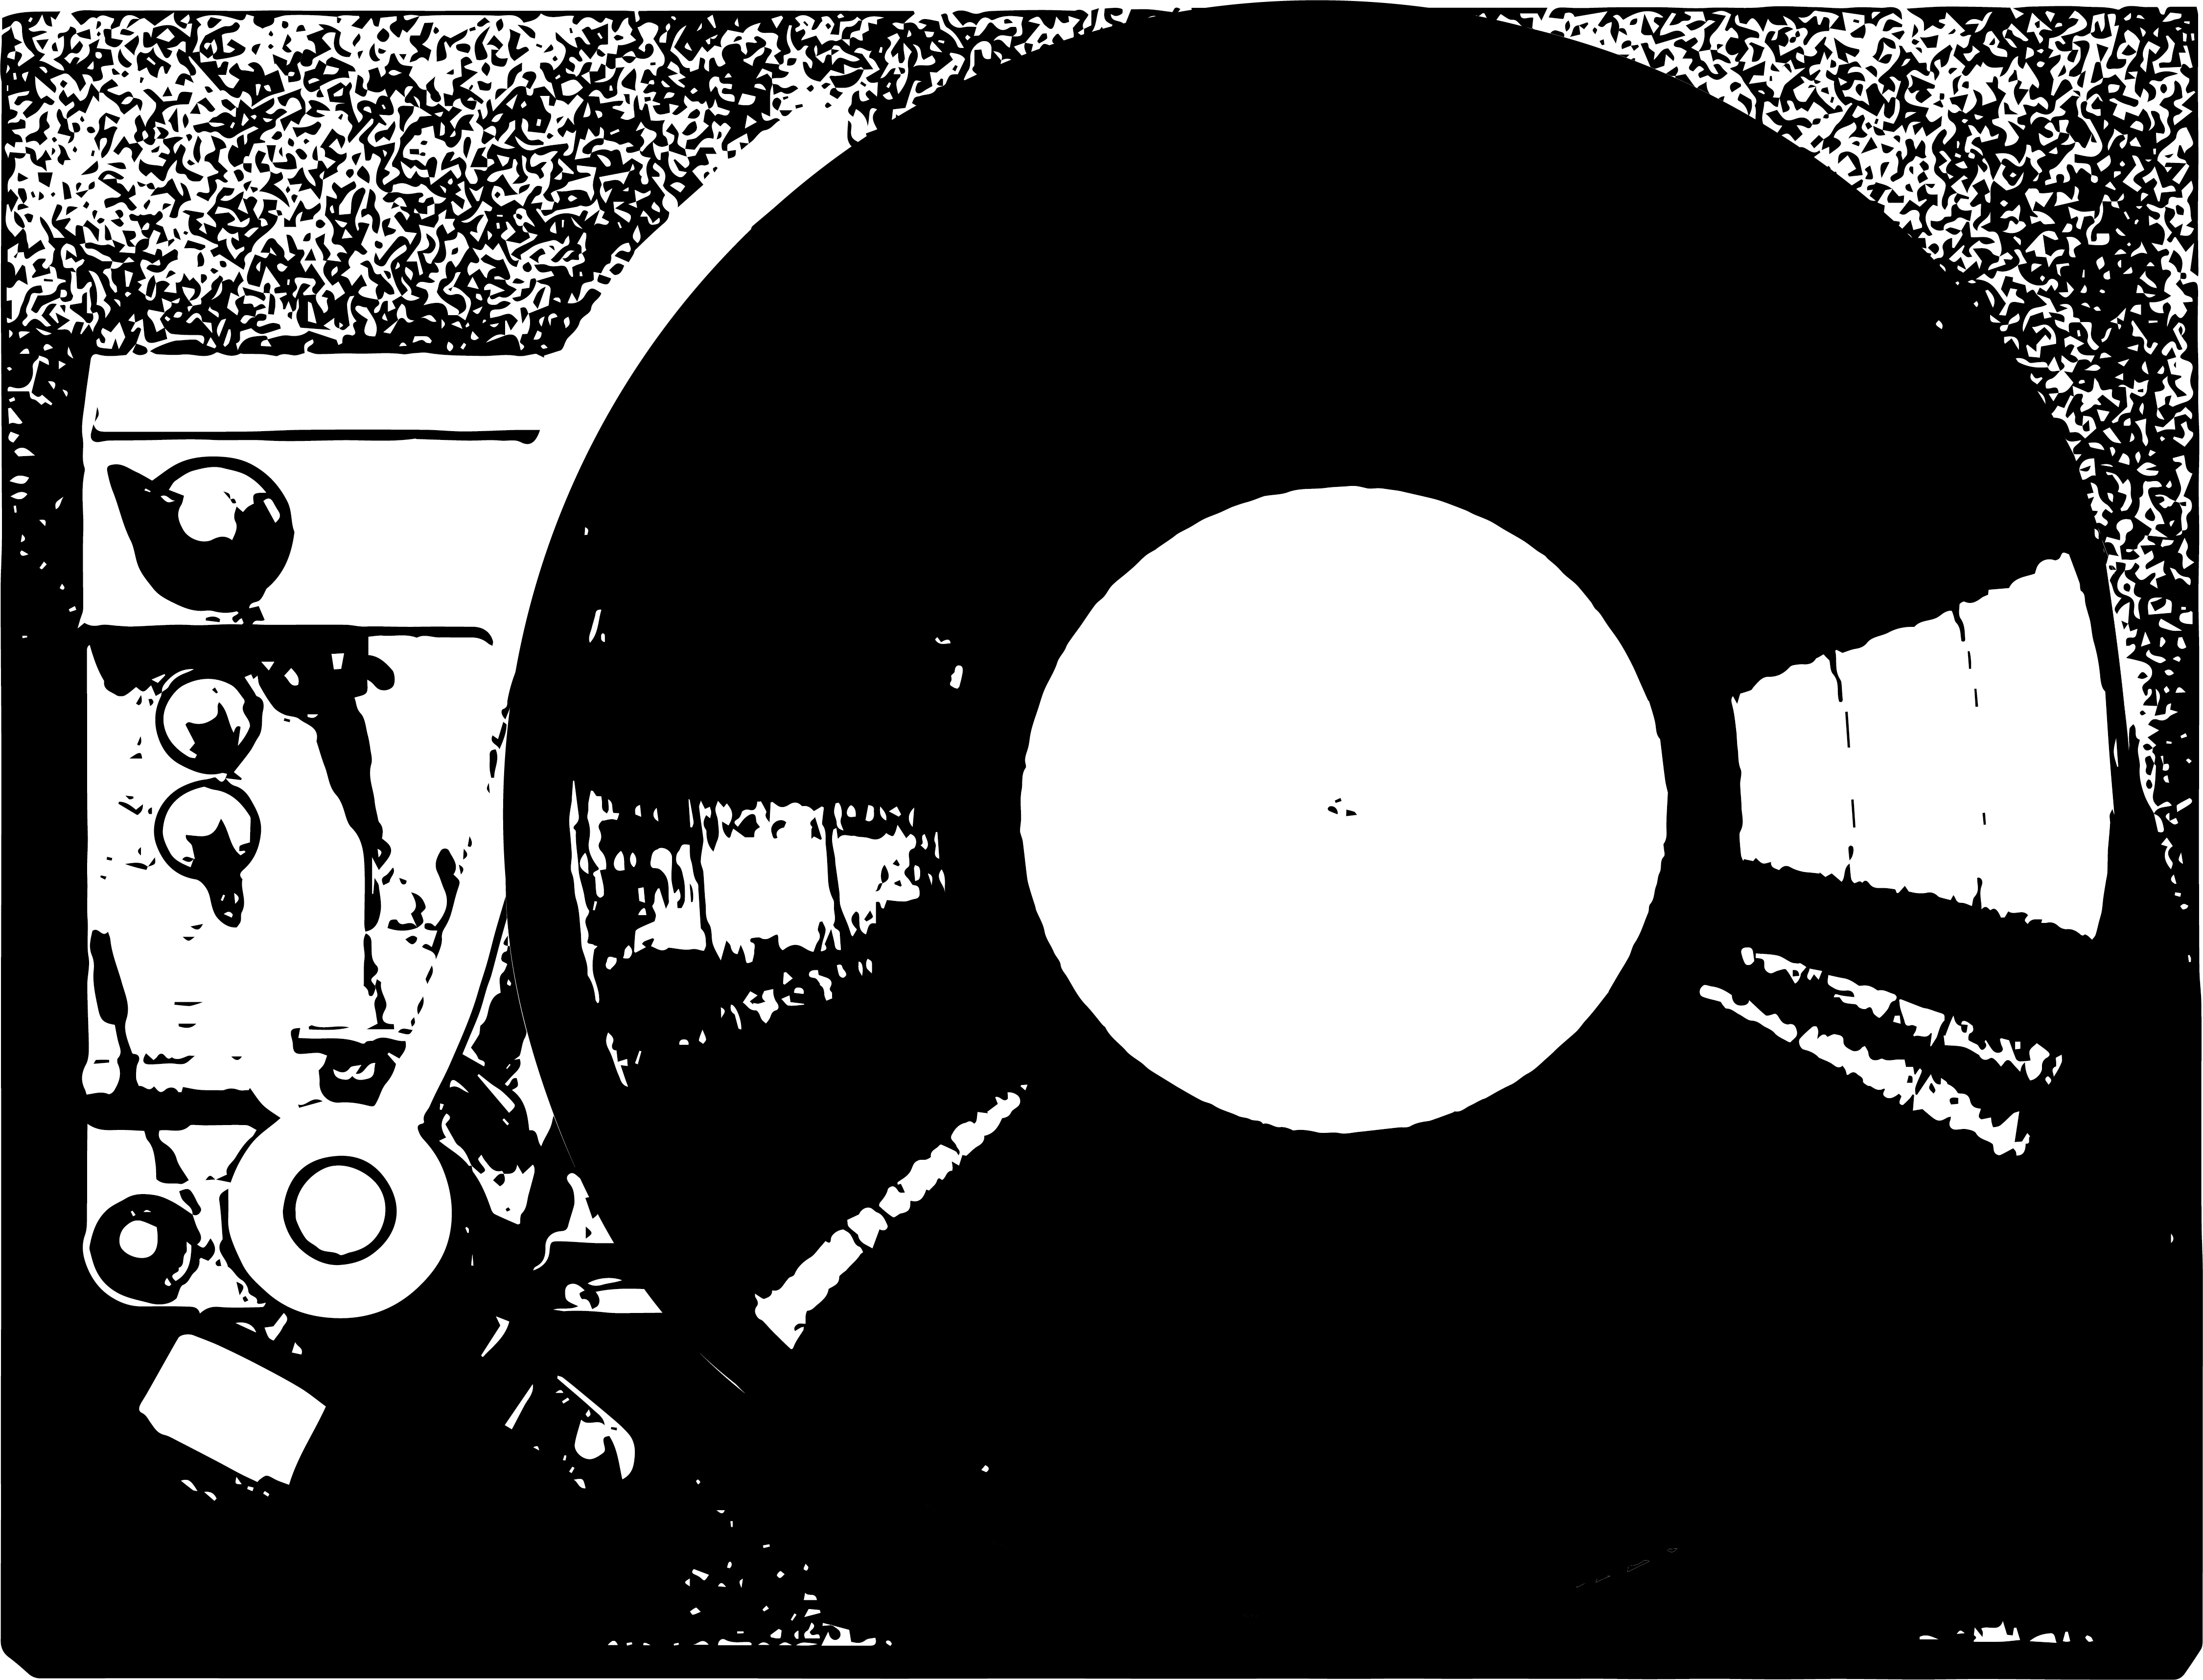
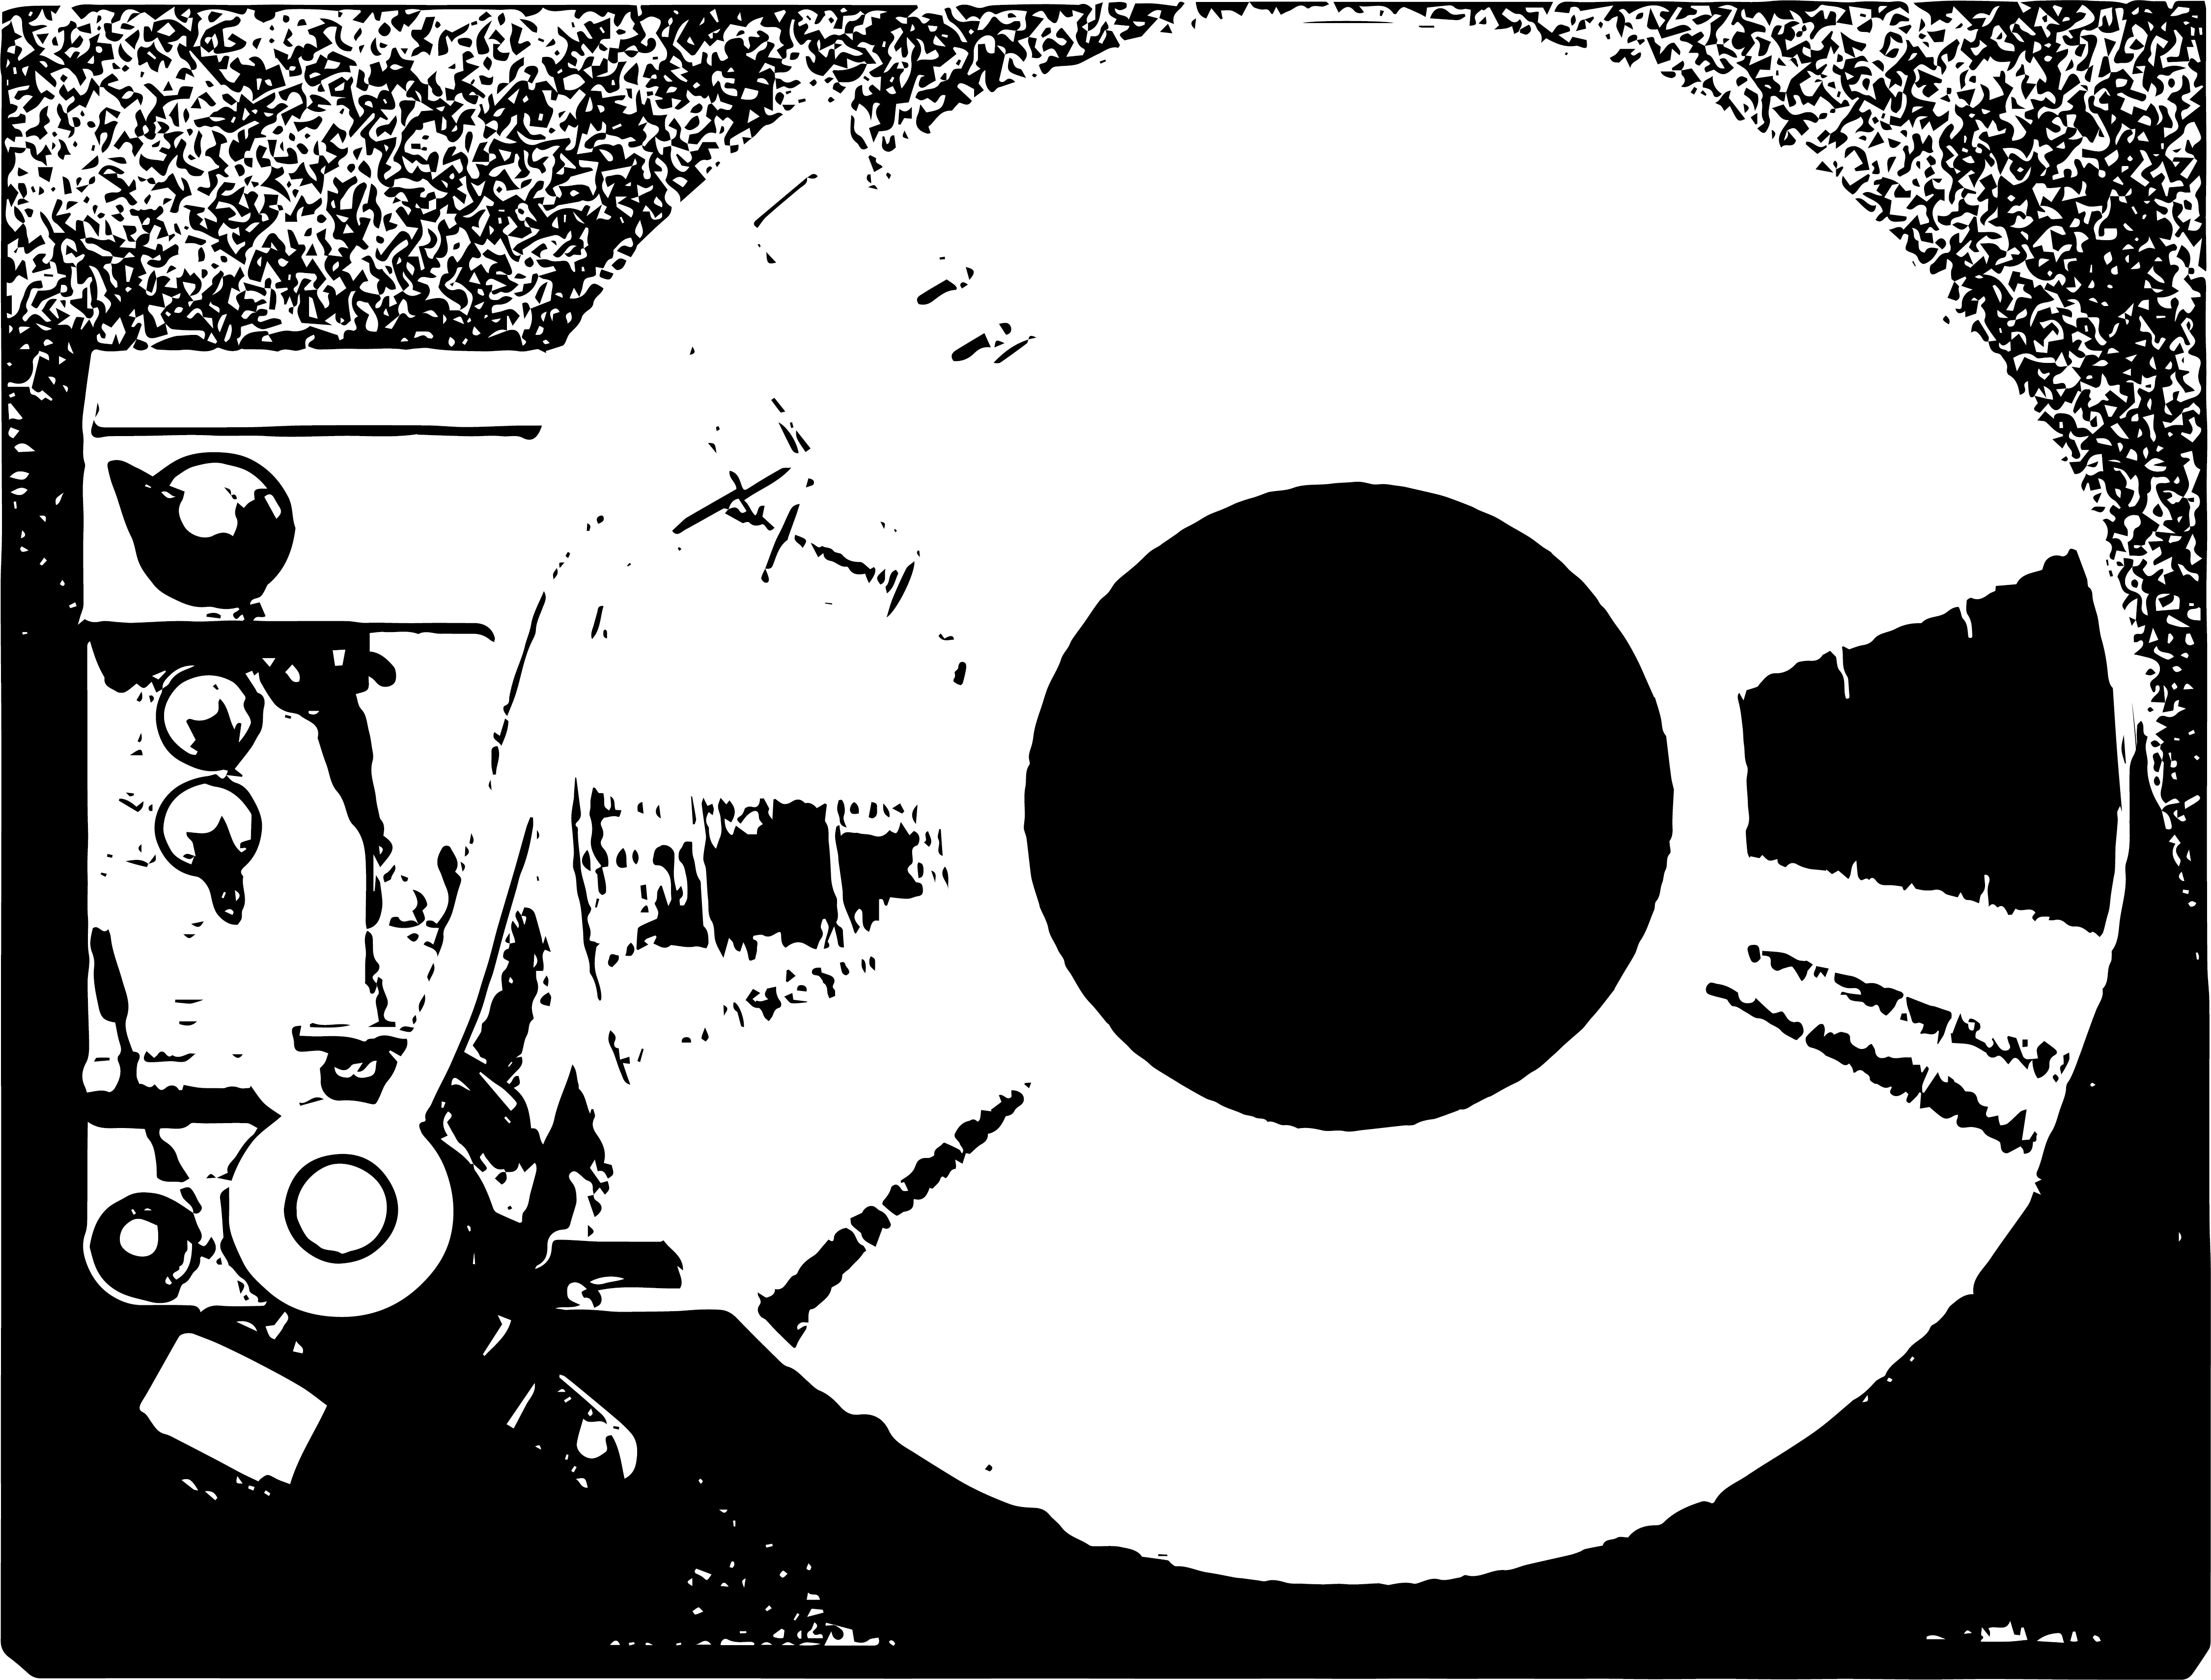
debugginggggg

diff --git a/stylesheets/style.css b/stylesheets/style.css
@@ -26,11 +26,46 @@
 
 
 /* TURNTABLE */
+.player {
+	display: flex;
+	justify-content: center;
+	align-items: center;
+	height: fit-content;
+}
+
+.turntable-container {
+	position: relative;
+	width: 300px;
+}
+
 .turntable {
+	width: 100%;
+	height: auto;
+}
+
+.main-turn {
+	position: absolute;
+	top: 50%;
+	left: 50%;
+	width: 60%;
+	height: auto;
+	transform: translate(-50%, -50%);
+	animation: spin 3s linear infinite;
+}
+
+.vinyl {
+	width: 100%;
+	height: auto;
+}
+
+
+
+/* .turntable {
 	position: relative;
 	display: flex;
 	align-items: center;
 	justify-content: center;
+	width: 300px;
 	box-shadow: inset 1px 2px 2px 4px var(--shadow), 0px 5px 15px rgba(0, 0, 0, 0.5);
 	margin: auto;
 	transform: rotate(5deg);
@@ -39,14 +74,26 @@
 	z-index: -20;
 }
 
-
-.main-turn > img {
+.main-turn {
 	position: relative;
-	animation: spin 3s linear infinite;
-	justify-self: center;
-	align-self: center;
-	margin-top: var(--margin);
+	display: flex;
+	justify-content: center;
+	align-items: center;
+	width: 300px;
+	/* top: 50%;
+	left: 50%;
+	transform: translate(-50%, -50%); 
 }
+
+/* .vinyl {
+	position: absolute;
+	top: 50%;
+	left: 50%;
+	transform: translate(-50%, -50%);
+	animation: spin 3s linear infinite;
+	width: 100%;
+	height: auto;
+} */ 
 
 /* .vinyl-center {
 	background: radial-gradient(circle, #ddd 20%, #999 60%, #666 100%);
@@ -60,12 +107,13 @@
 	box-shadow: 0px 0px 5px rgba(255, 255, 255, 0.3), 0px 0px 10px rgba(0, 0, 0, 0.5);
 } */
 
+
 @keyframes spin {
 	from {
-		transform: rotate(0deg);
+		transform: translate(-50%,-50%) rotate(0deg);
 	}
 	to {
-		transform: rotate(360deg);
+		transform: translate(-50%, -50%) rotate(360deg);
 	}
 }
 

diff --git a/index.html b/index.html
@@ -41,13 +41,22 @@
 				<h1 class="name">hye lynn suh</h1>
 				<p class="name-subtext right-def">product designer based in nyc</p>
 			</section>
-			<div class="turntable">
+			<div class="player">
+				<div class="turntable-container">
+					<img class="turntable" src="assets/player.png">
+					<div class="main-turn">
+						<img class="vinyl" src="assets/vinyl.png">
+						<div class="vinyl-center"></div>
+					</div>
+				</div>
+			</div>
+			<!-- <div class="turntable">
 				<img src="assets/player.png">
 				<div class="main-turn">
 					<img class="vinyl" src="assets/vinyl.png">
 					<div class="vinyl-center"></div>
 				</div>
-			</div>
+			</div> -->
 			<section id="super-power">
 				<h3 class="super-power">
 					making structured design feel natural, emotional, and profoundly human